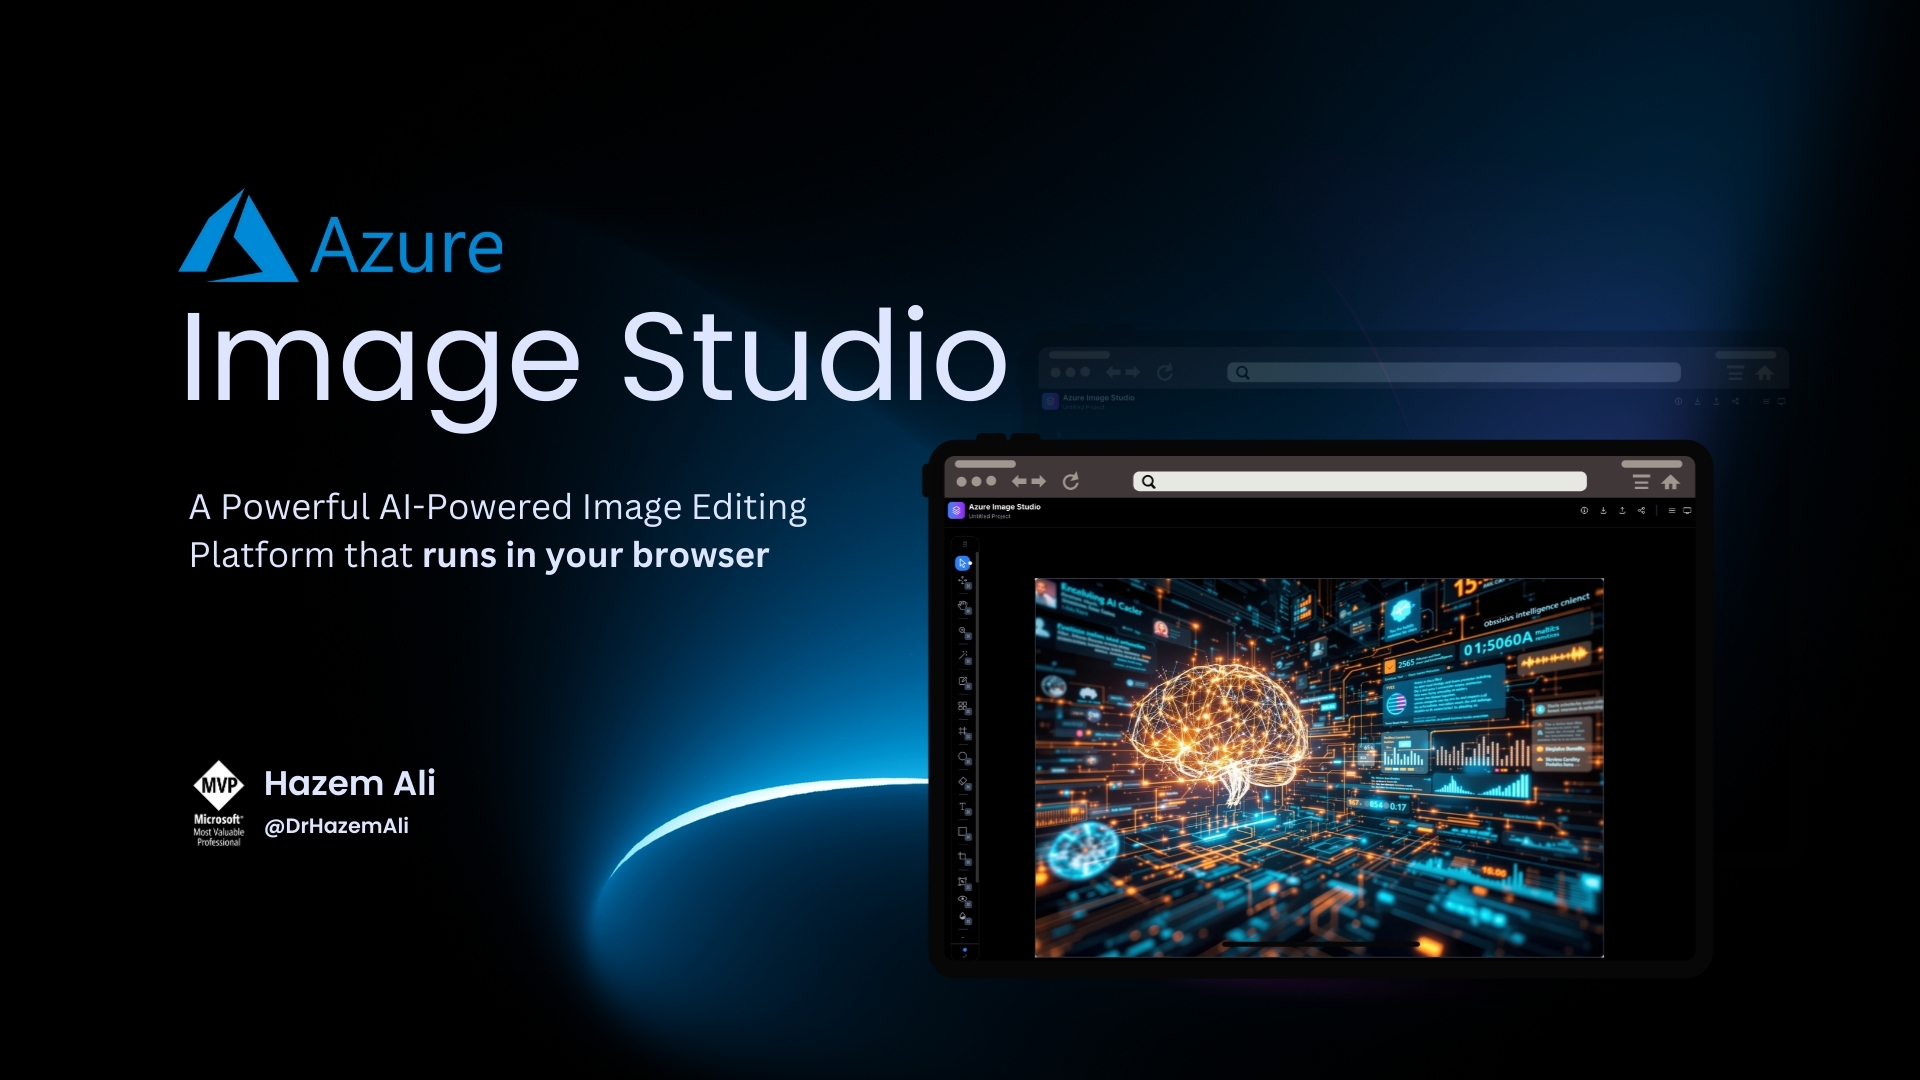
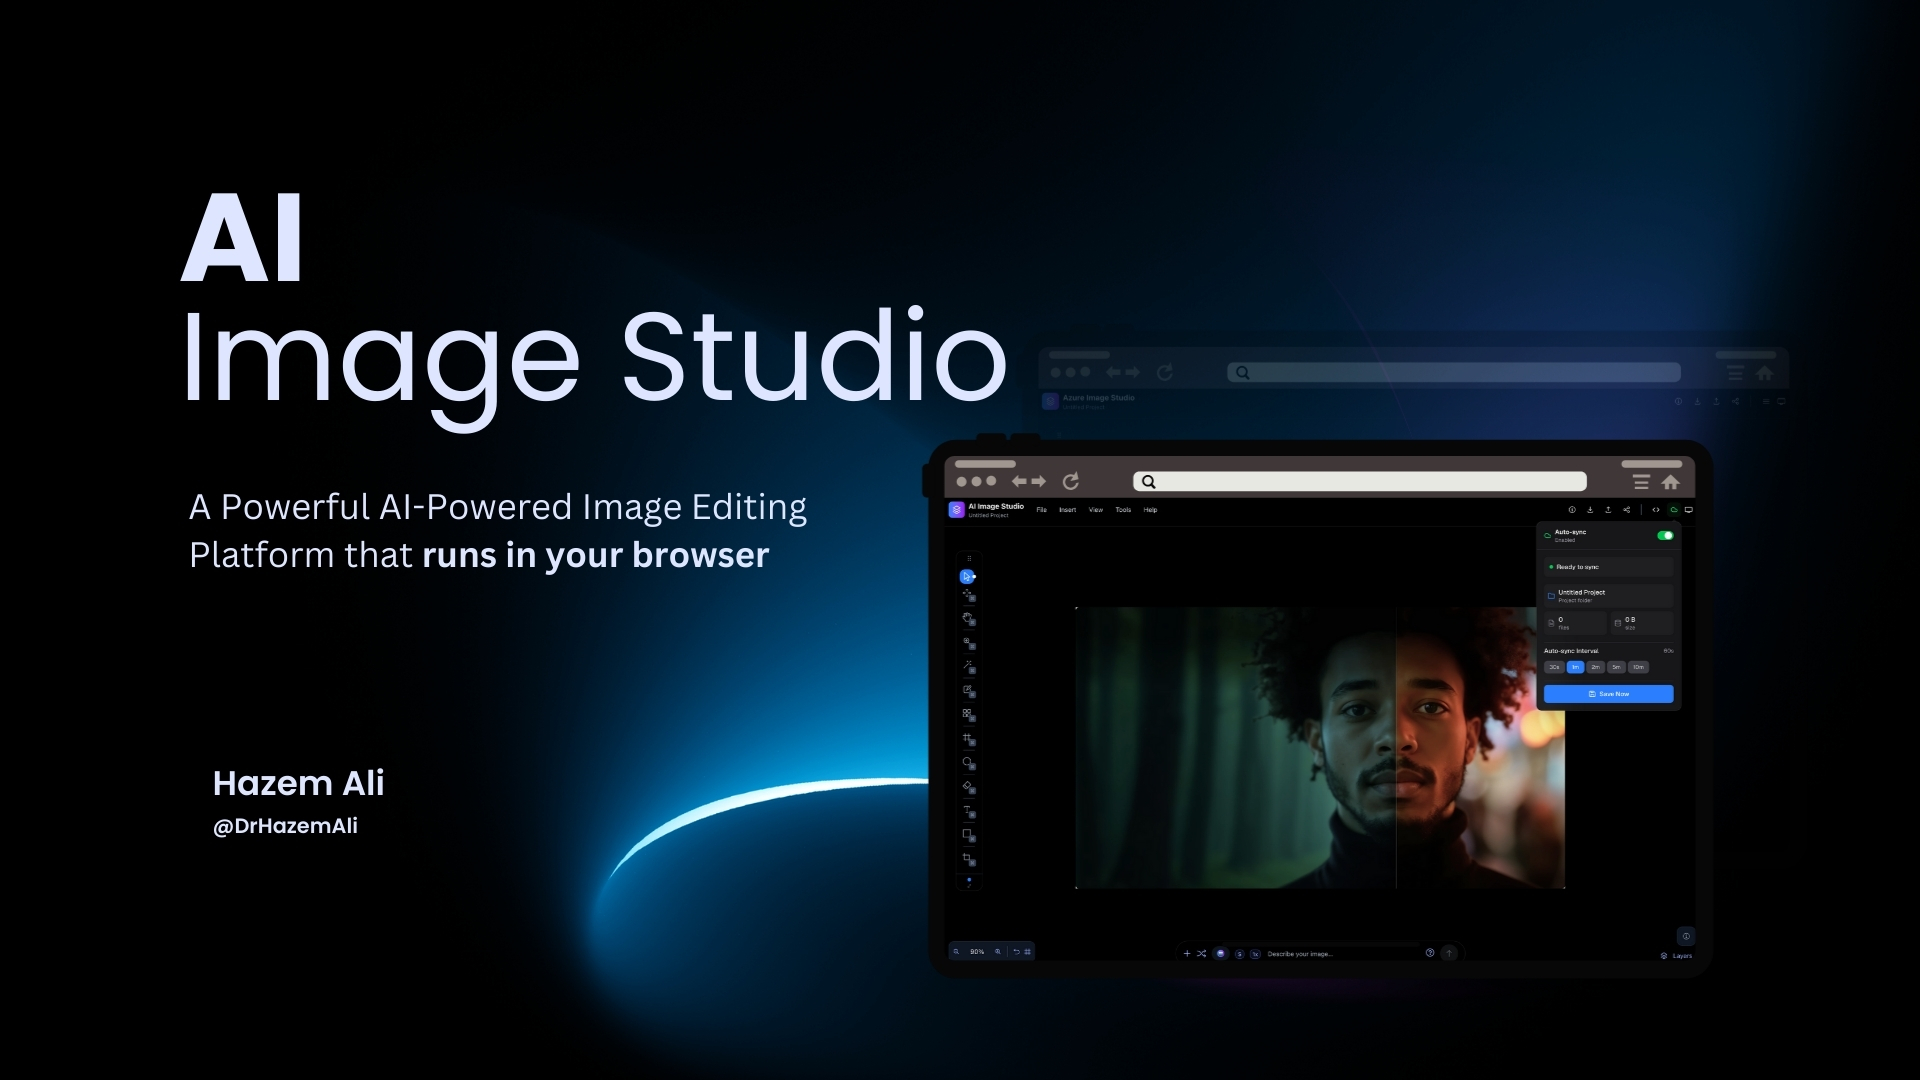
Project Renamed

diff --git a/README.md b/README.md
@@ -1,6 +1,6 @@
-# Image Studio
+# AI Image Studio
 
-Image Studio is a cutting-edge image generation and editing platform that harnesses the full power of Azure AI services. Built and maintained by Microsoft MVPs, this professional-grade solution delivers state-of-the-art AI capabilities through an intuitive, modern interface. Whether you're creating stunning visuals, editing professional content, or building automated image workflows, Image Studio provides the tools and performance you need to transform your creative vision into reality.
+AI Image Studio is a cutting-edge image generation and editing platform that harnesses the full power of Azure AI services. Built and maintained by Microsoft MVPs, this professional-grade solution delivers state-of-the-art AI capabilities through an intuitive, modern interface. Whether you're creating stunning visuals, editing professional content, or building automated image workflows, Image Studio provides the tools and performance you need to transform your creative vision into reality.
 
 ![Image Studio](https://github.com/DrHazemAli/image-studio/blob/main/public/image-studio.jpg)
 
